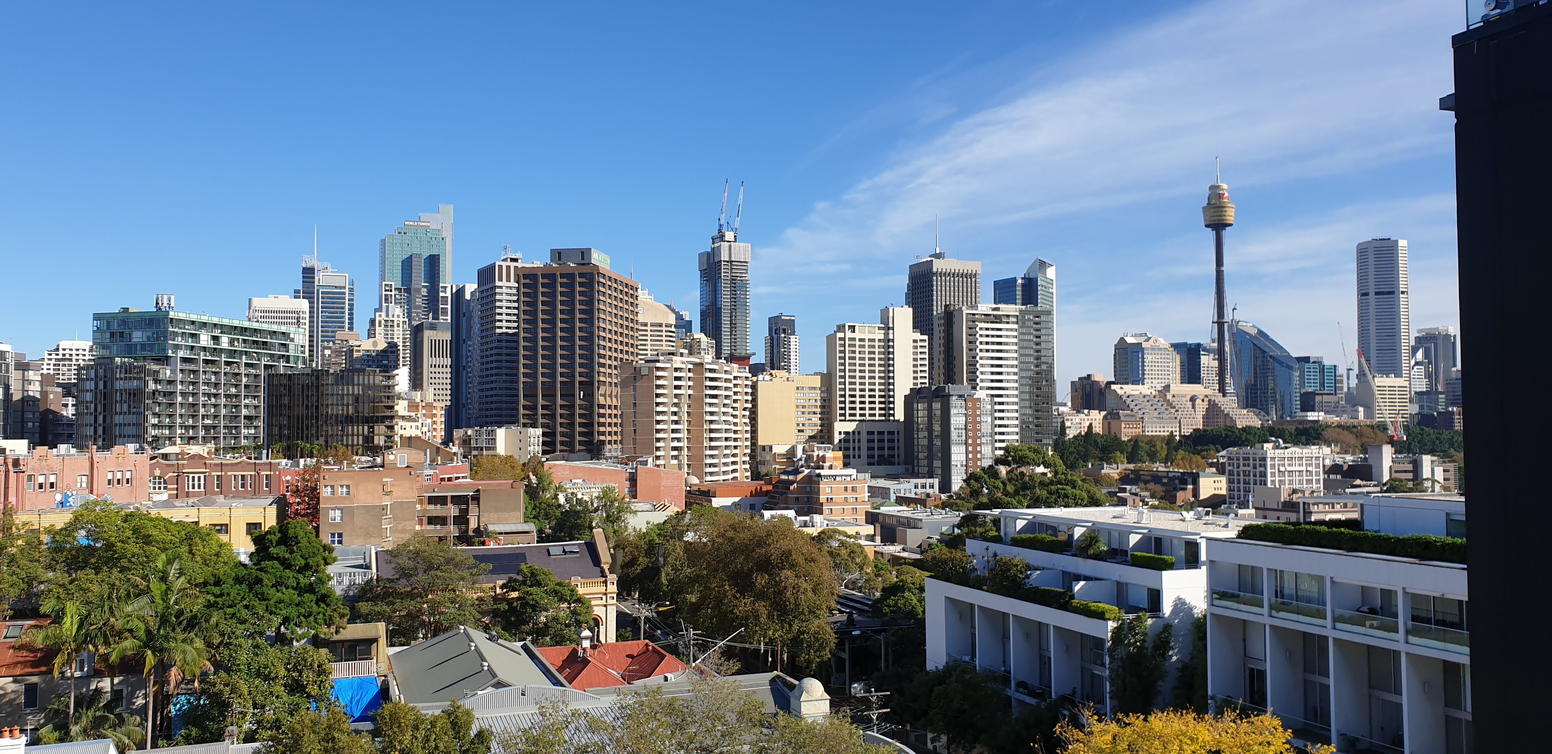
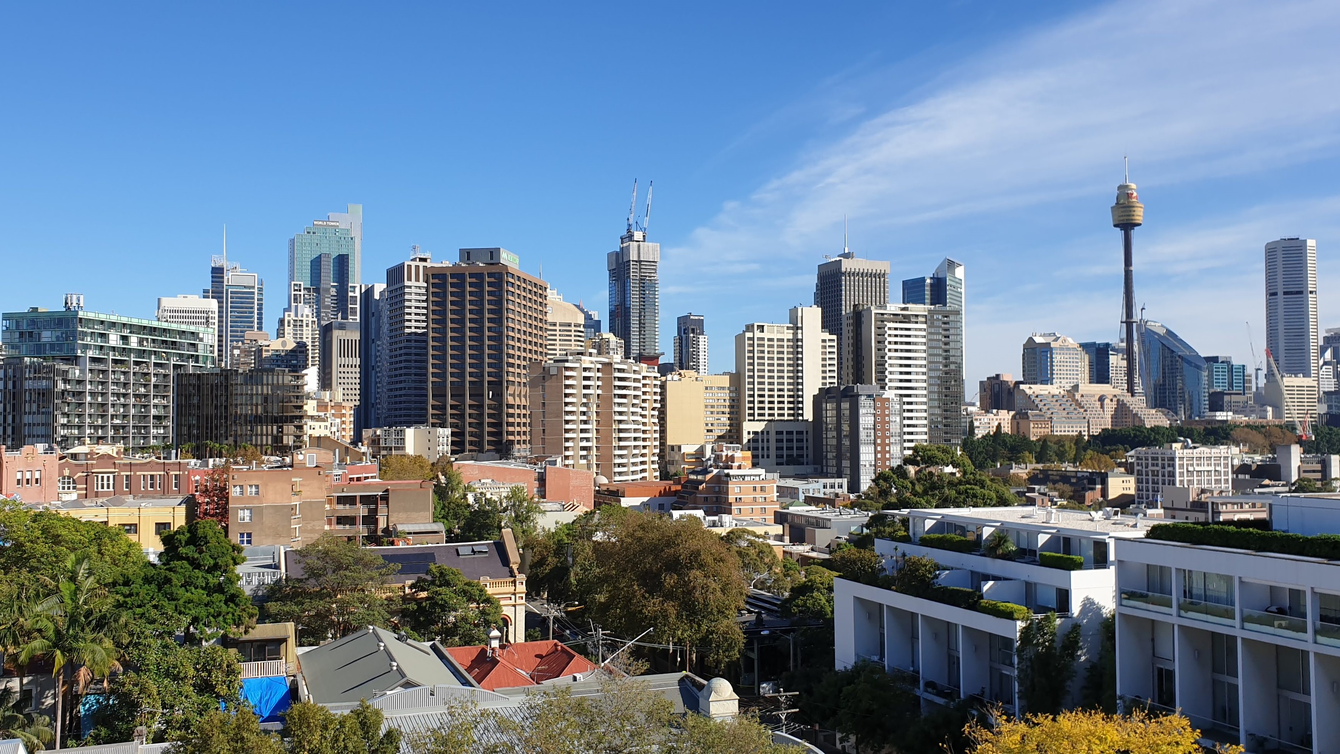
doco

diff --git a/README.md b/README.md
@@ -2,16 +2,15 @@
 
 ## Background
 
-Born of necessity, this project tracks the air quality over Sydney during the height of the Australian bush fires. I wanted to gauge when it was safe to go outside, or when it was better to close up the house and stay in for the day.
+Born of necessity, this project tracks the air quality over Sydney during the height of the Australian bush fires. I wanted to gauge when it was safe to go outside, or when it was better to close up the apartment and stay in for the day.
 
 | Sydney, Dec 2019 | Particulate matter readings|
 | ---- | ---|
-| ![](resources\sydney-height-of-bush-fires.jpg) | ![](resources/pm-readings-dec-10-2019.png)
+| ![](resources\sydney-height-of-bush-fires.jpg) | Readings for PM 2.5 and PM 10 approx 1000. Healthy levels should be between 0 ~ 10. ![](resources/pm-readings-dec-10-2019.png) |
 
-This is Sydney on a clear day, alas, during the COVID-19 Pandemic lock down.
+This is Sydney on a clear day, taken in May 2020, alas, during the COVID-19 Pandemic lock down.
 
 ![](resources/sydney-height-of-pandemic.jpg)
-
 
 
 ---
